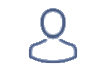
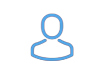
Added new popup and fixed tost sizing

Changed region(s): [[0.2523, 0.1067, 0.729, 0.8533]]

diff --git a/src/components/MapView.js b/src/components/MapView.js
@@ -1,5 +1,5 @@
 import React from 'react';
-import { Button, View, Text, Image, TouchableOpacity, ScrollView, WebView,Dimensions } from 'react-native';
+import { Button, View, Text, Image, TouchableOpacity, ScrollView, WebView,Dimensions, TouchableWithoutFeedback } from 'react-native';
 import PopupDialog, { SlideAnimation, DialogTitle } from 'react-native-popup-dialog';
 import CheckBox from 'react-native-checkbox';
 
@@ -39,7 +39,9 @@ class MapView extends React.Component {
                         source={require('../assets/images/ham.jpg')}
                     />
                 </TouchableOpacity>
-                <TouchableOpacity onPress={() => console.log("Nosh clicked")}>
+                <TouchableOpacity onPress={() => {this.popupDialog2.show(
+                    this.setState({mapOn: false})
+                )}}>
                     <Image
                     style={styles.logo}
                     source={require('../assets/images/logoblack.jpg')}
@@ -121,14 +123,105 @@ class MapView extends React.Component {
                             </View>
                         </View>
                     </PopupDialog>
-                {/* MapView */}
-                    <ScrollView style={{flex: 1}}>
+                    {/* Pop 2 */}
+                    <PopupDialog
+                        ref={(popupDialog2) => { this.popupDialog2 = popupDialog2; }}
+                        dialogAnimation={slideAnimation}
+                        width={0.9}
+                        onDismissed={() => { this.setState({mapOn: true}) }}
+                        height={320}
+                    >
                         <View>
-                            <Image
-                                style={{height: 700, flex: 1, width: null}}
-                                source={require('../assets/images/map.jpg')}
-                            />
-                        </View>
+                            <View>
+                                <Text style={styles.popUpText}>Subway Pune</Text>
+                            </View>
+                            {/* Checkbox */}
+                            <View>
+                                <View style={{flexDirection:'row', justifyContent: 'space-around', marginTop: 15}}>
+                                    <View style={{flex:0.2}}></View>
+                                    <View style={{flex:0.6}}>
+                                        <Text style={{fontSize: 20, fontFamily: 'Montserrat-Regular', textAlign: 'center'}}>6 Hours</Text>
+                                    </View>
+                                    <View style={{flex:0.2}}></View>
+                                </View>
+                                <View style={{flexDirection:'row', justifyContent: 'space-around', marginTop: 15}}>
+                                    <View style={{flex:0.2}}></View>
+                                    <View style={{flex:0.6}}>
+                                    <Text style={{fontSize: 20, fontFamily: 'Montserrat-Regular', textAlign: 'center'}}>10 Bar-b-Que</Text>
+                                    </View>
+                                    <View style={{flex:0.2}}></View>
+                                </View>
+                            
+                                        
+                            </View>
+                            </View>
+                            <View>
+                                <View style={{flexDirection:'row', justifyContent: 'space-around', marginTop: 15}}>
+                                    <View style={{flex:0.2}}></View>
+                                    <View style={{flex:0.3}}>
+                                        <CheckBox
+                                            label='Dine-in'
+                                            checked={true}
+                                            checkedImage={require('../assets/images/checked.jpg')}
+                                            uncheckedImage={require('../assets/images/unchecked.jpg')}
+                                            onChange={(checked) => checked=false}
+                                        />
+                                    </View>
+                                    <View style={{flex:0.3}}>
+                                        <CheckBox
+                                            label='Take Away'
+                                            checked={false}
+                                            checkedImage={require('../assets/images/checked.jpg')}
+                                            uncheckedImage={require('../assets/images/unchecked.jpg')}
+                                            onChange={(checked) => this.checked=true}
+                                        />
+                                    </View>
+                                    <View style={{flex:0.2}}></View>
+                                </View>
+                            </View>
+
+
+                            <View>
+                                <View style={{flexDirection:'row', justifyContent: 'space-around', marginTop: 15}}>
+                                    <View style={{flex:0.2}}></View>
+                                    <View style={{flex:0.3}}>
+                                        <CheckBox
+                                            label='N/V'
+                                            checked={true}
+                                            checkedImage={require('../assets/images/checked.jpg')}
+                                            uncheckedImage={require('../assets/images/unchecked.jpg')}
+                                            onChange={(checked) => checked=false}
+                                        />
+                                    </View>
+                                    <View style={{flex:0.3}}>
+                                        <CheckBox
+                                            label='V'
+                                            checked={false}
+                                            checkedImage={require('../assets/images/checked.jpg')}
+                                            uncheckedImage={require('../assets/images/unchecked.jpg')}
+                                            onChange={(checked) => this.checked=true}
+                                        />
+                                    </View>
+                                    <View style={{flex:0.2}}></View>
+                                </View>
+                            </View>
+                            <View style={{flexDirection:'row', marginTop: 15}}>
+                                    <View style={{flex:0.3}}></View>
+                                        <TouchableOpacity style={ styles.buttonStyleB } onPress={() => {this.popupDialog2.dismiss(this.setState({mapOn: true}))}}>
+                                            <Text style={ styles.textStyleB }>REQUEST</Text>
+                                        </TouchableOpacity>
+                                    <View style={{flex:0.3}}></View>
+                                </View>
+
+                            </PopupDialog>
+                
+                    <ScrollView contentContainerStyle={{height: 700}}>
+                        <ScrollView horizontal contentContainerStyle={{width: 2000}}>
+                                <Image
+                                    style={{height: 700,flex: 1, width: null}}
+                                    source={require('../assets/images/map.png')}
+                                />
+                        </ScrollView>
                     </ScrollView>
                 {/* End map view */}
                 
@@ -154,7 +247,7 @@ const styles = {
         bottom: 100, 
         // justifyContent: 'center', 
         // alignItems: 'center'
-        left: (Dimensions.get('window').width / 2) - 183
+        left: (Dimensions.get('window').width / 2) - (((Dimensions.get('window').width*8.5)/10.0)/2)-8
     },
     header: {
         flexDirection: 'row',

diff --git a/src/components/Profile.js b/src/components/Profile.js
@@ -145,7 +145,7 @@ class Profile extends React.Component {
                         <View style={{flex:0.8}}>
                             <View style={styles.imageContainer}>
                                 <Image
-                                    source={require('../assets/images/profileme.jpg')}
+                                    source={require('../assets/images/profileme.png')}
                                 />
                             </View>
                         </View>
